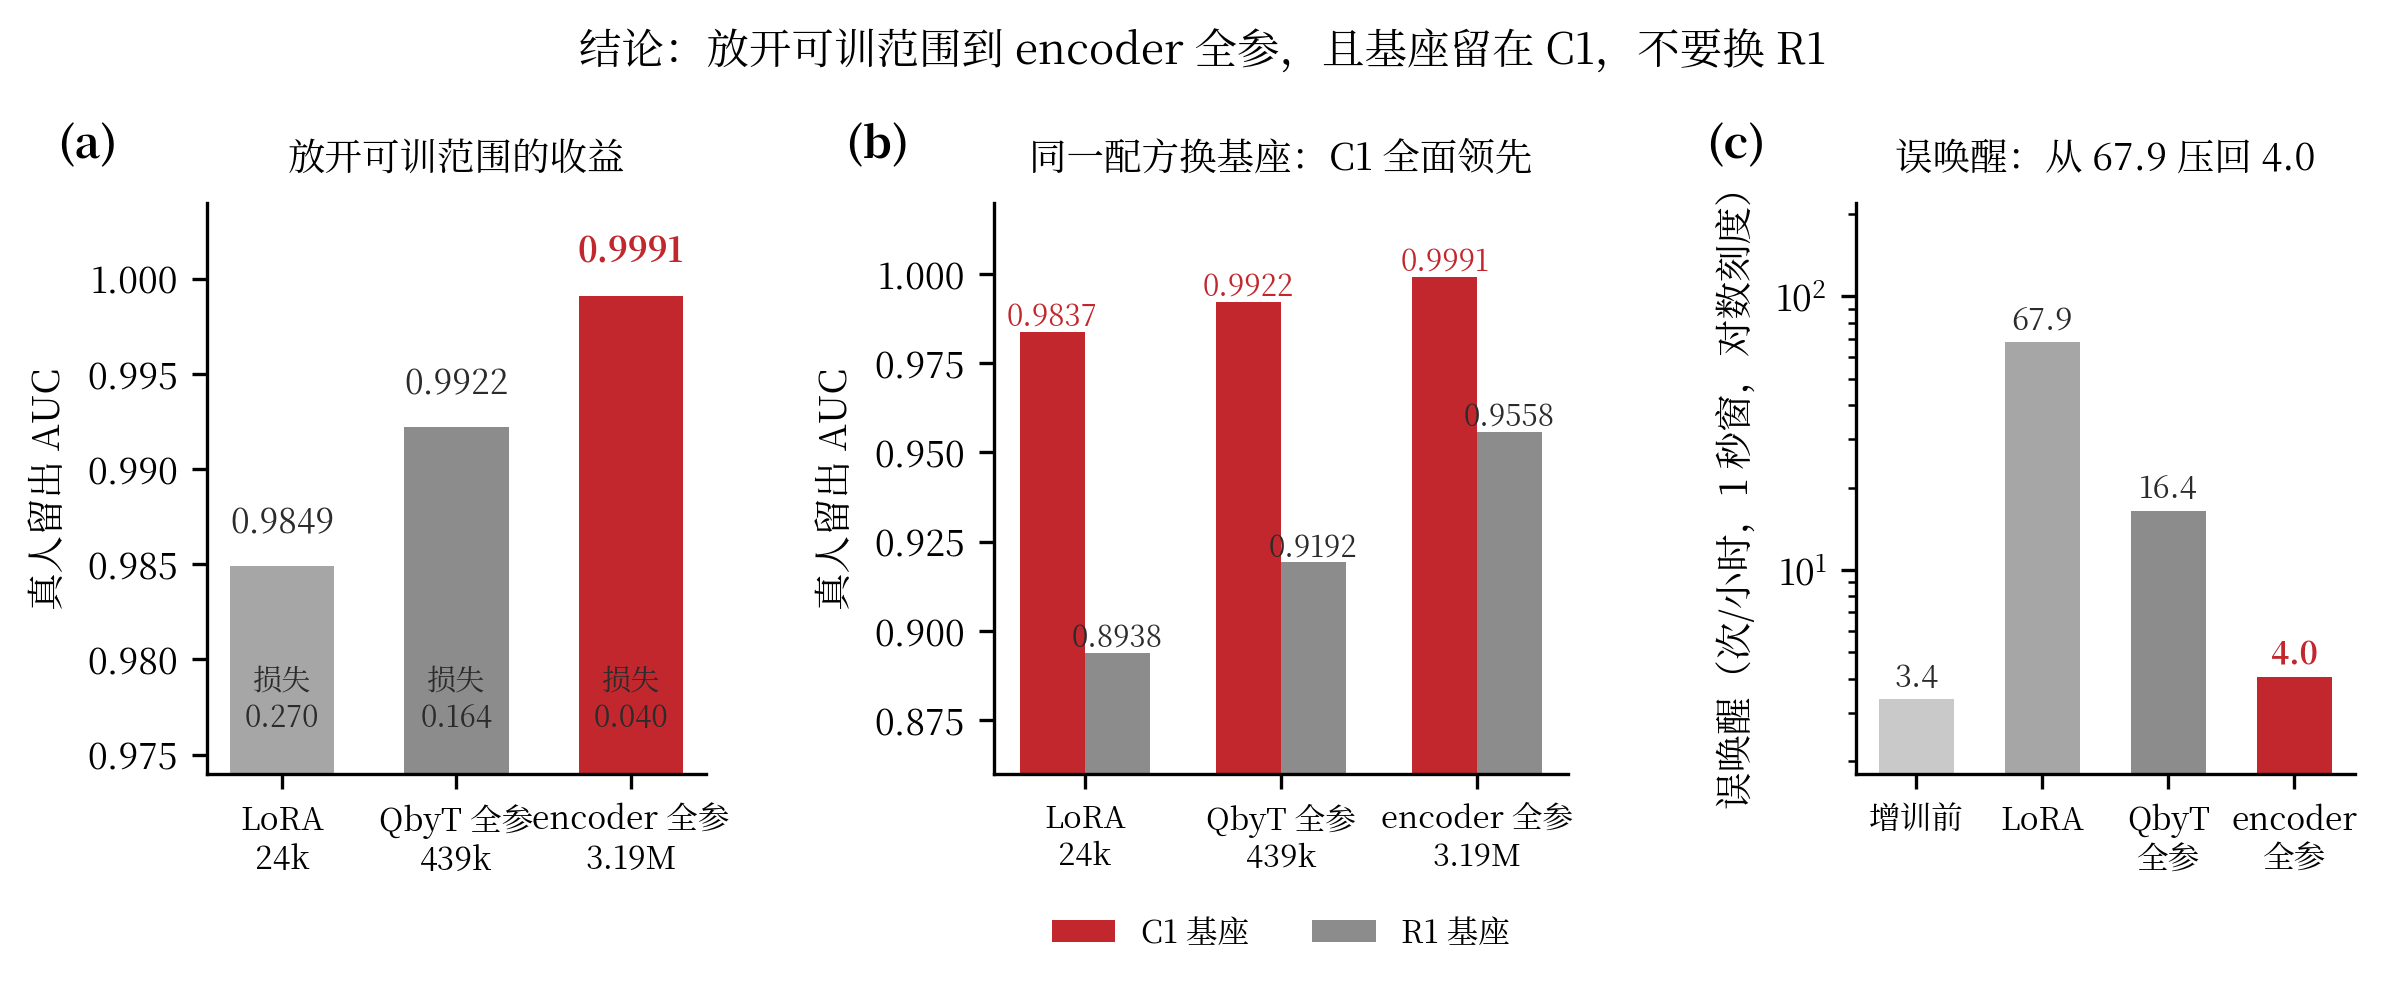
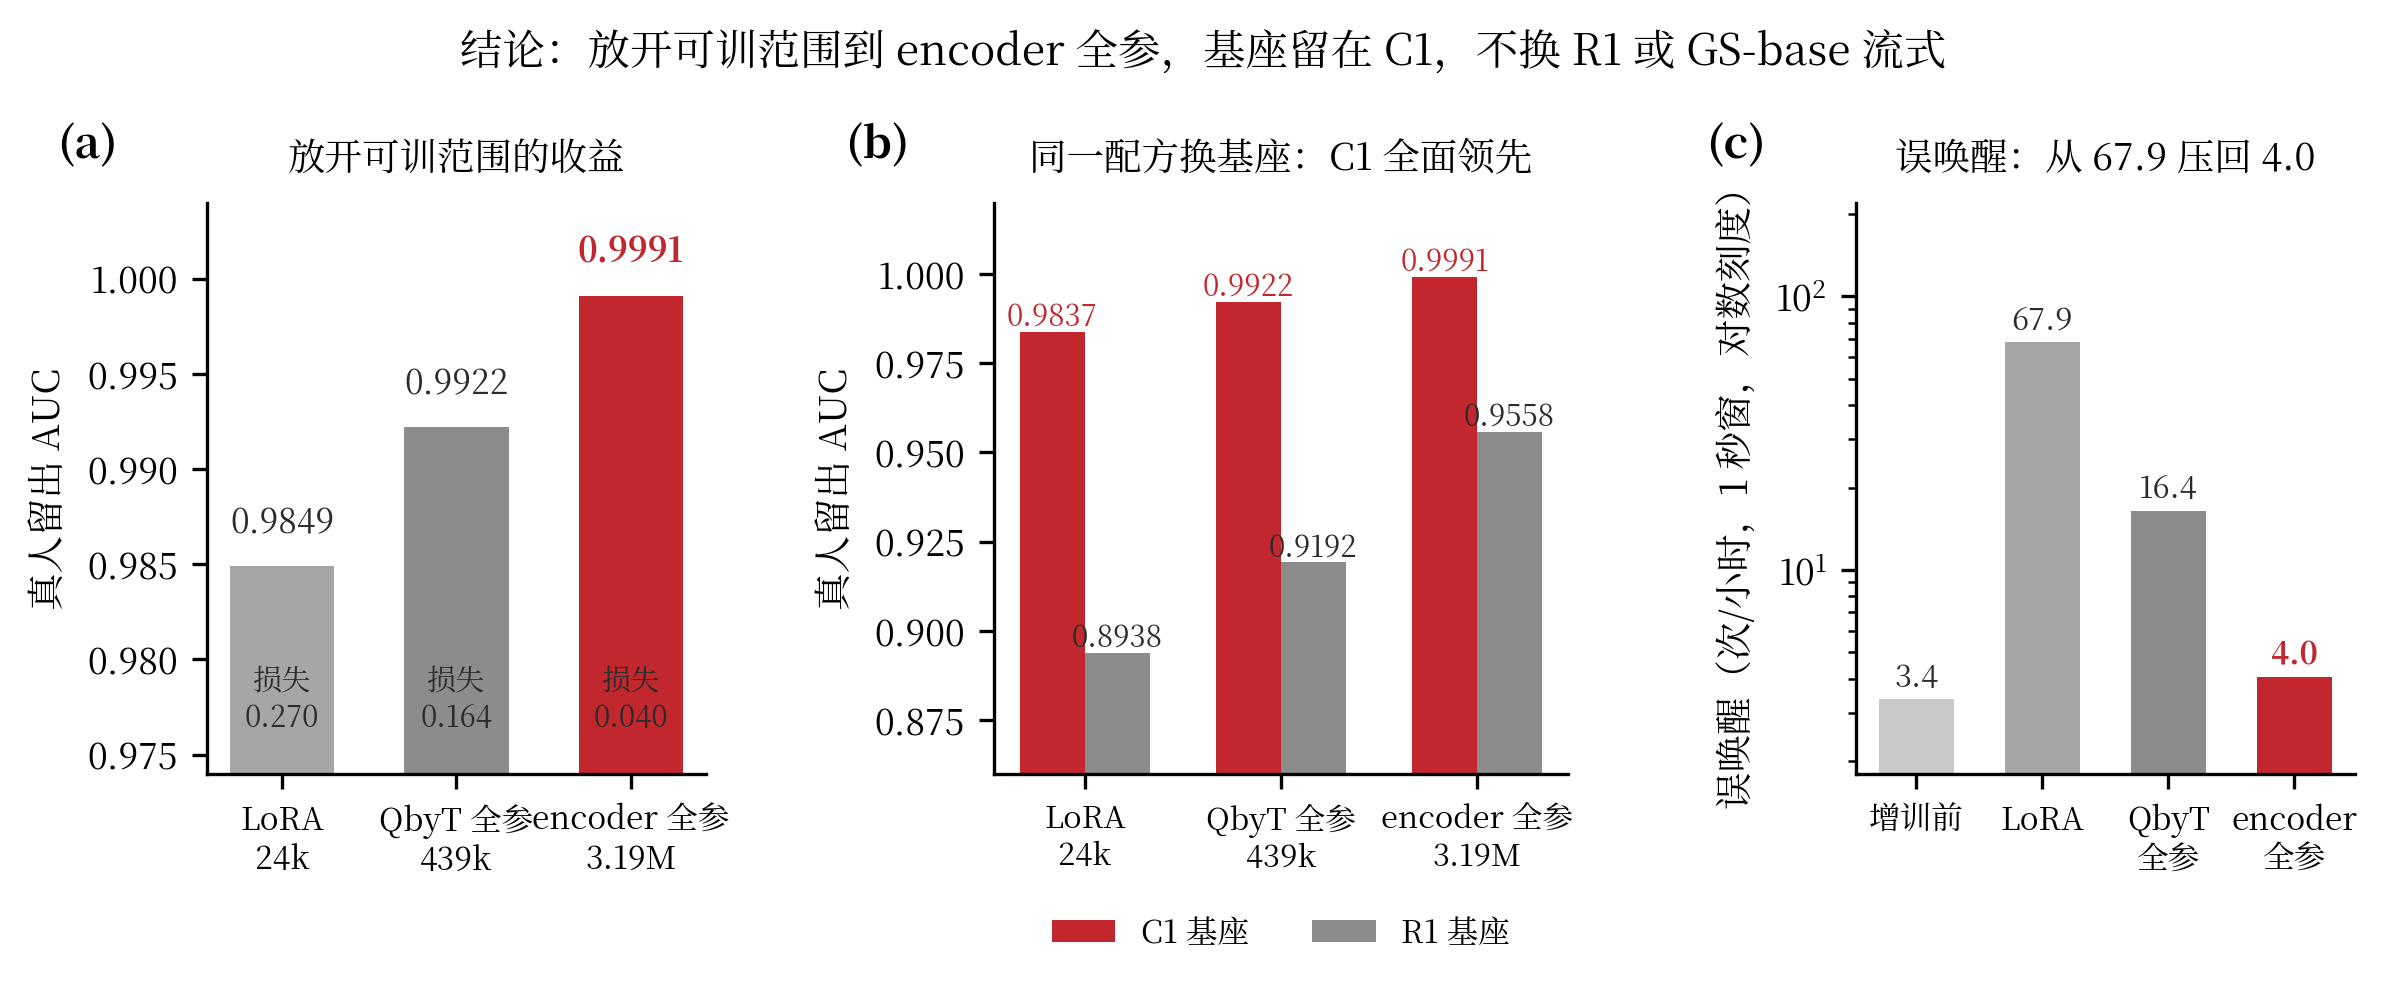
docs(report): record the GS-base encoder-family recheck
- New section 7.8: the adaptation recipe re-run on the GS-base streaming encoder with identical settings (joint quota, 2100 steps, matcher lr 1e-4, encoder lr 5e-5, batch 64, same sampling weights and seed), reporting both trainable scopes against the C1 delivery arms.
- Table 7-2 gains the seventh round; the operating-point tables gain the base-encoder provenance columns and the two GS-base arms; the encoder provenance comparison is referenced as appendix H.
- gen_report_figs.py: figure 7-3 now plots the GS-base series, the old figure 7-4 is renumbered to 7-5, and a new figure 7-4 shows the four-way encoder-family comparison.

Readings: releasing the encoder helps in both families (GS-base real AUC 0.9487 -> 0.9758), but at equal trainable scope C1 leads across the board; the recipe transfers, the encoder family sets the ceiling.

Changed region(s): [[0.186, 0.0312, 0.806, 0.0624]]

diff --git a/docs/report/gen_report_figs.py b/docs/report/gen_report_figs.py
@@ -3,6 +3,7 @@ import matplotlib
 matplotlib.use("Agg")
 import matplotlib.pyplot as plt
 import matplotlib.patches as mpatches
+import matplotlib.patheffects as pe
 from matplotlib.gridspec import GridSpec
 import numpy as np
 
@@ -17,7 +18,7 @@ plt.rcParams.update({
     "figure.dpi": 110, "savefig.dpi": 300, "savefig.bbox": "tight",
 })
 RED="#C1272D"; BLUE="#0072B2"; GRAY="#8C8C8C"; MGRAY="#A6A6A6"; LGRAY="#C9C9C9"
-ORANGE="#E69F00"; DARK="#2B2B2B"
+ORANGE="#E69F00"; DARK="#2B2B2B"; GREEN="#009E73"; LGREEN="#7FCBAF"
 
 def plabel(ax, s, x=-0.20, y=1.05):
     ax.text(x, y, s, transform=ax.transAxes, fontsize=10.5, fontweight="bold", va="bottom", visible=True)
@@ -479,7 +480,7 @@ def fig7_2():
     ax.set_xticks(range(4)); ax.set_xticklabels(["增训前", "LoRA", "QbyT\n全参", "encoder\n全参"], fontsize=7.6)
     ax.set_ylabel("误唤醒（次/小时，1 秒窗，对数刻度）")
     ax.set_title("误唤醒：从 67.9 压回 4.0", fontsize=9, pad=8)
-    fig.suptitle("结论：放开可训范围到 encoder 全参，且基座留在 C1，不要换 R1", y=0.99, fontsize=10.2)
+    fig.suptitle("结论：放开可训范围到 encoder 全参，基座留在 C1，不换 R1 或 GS-base 流式", y=0.99, fontsize=10.2)
     fig.subplots_adjust(left=0.085, right=0.98, top=0.82, bottom=0.26)
     save(fig, "fig7-2_scope_and_base")
 
@@ -493,6 +494,7 @@ def fig7_3():
         ("C1 + LoRA", [0.746, 0.822, 0.904, 0.923], ORANGE, "s"),
         ("C1 + QbyT 全参", [0.926, 0.933, 0.970, 0.977], MGRAY, "^"),
         ("C1 + encoder 全参（交付）", [0.996, 0.996, 0.997, 0.998], RED, "D"),
+        ("GS-base 流式 + encoder 全参", [0.975, 0.979, 0.988, 0.991], GREEN, "P"),
         ("R1 + encoder 5e-5", [0.965, 0.967, 0.970, 0.971], BLUE, "v"),
     ]
     ax = fig.add_subplot(gs[:, 0]); plabel(ax, "(a)", x=-0.20, y=1.03)
@@ -504,21 +506,21 @@ def fig7_3():
     ax.legend(frameon=False, fontsize=6.8, loc="center right", bbox_to_anchor=(1.02, 0.42))
     ax.set_title("标准口径：唤醒率与误唤醒预算的交换曲线", fontsize=8.8, pad=8)
 
-    names = ["增训前", "LoRA", "QbyT", "R1+enc", "enc\n全参"]
-    cols = [LGRAY, MGRAY, GRAY, BLUE, RED]
+    names = ["增训前", "LoRA", "QbyT", "R1+enc", "enc\n全参", "GS\nbase"]
+    cols = [LGRAY, MGRAY, GRAY, BLUE, RED, GREEN]
     panels = [
-        (0, 1, "(b)", "TTS 唤醒率（预算 0.05）", [0.985, 0.848, 0.891, 0.948, 0.970], (0.80, 1.04)),
-        (1, 1, "(c)", "近音词误触发（预算 0.05）", [0.247, 0.000, 0.031, 0.260, 0.024], (0, 0.31)),
-        (0, 2, "(d)", "TTS 唤醒率（预算 1.0）", [0.991, 0.936, 0.909, 0.964, 0.970], (0.80, 1.04)),
-        (1, 2, "(e)", "近音词误触发（预算 1.0）", [0.305, 0.061, 0.065, 0.283, 0.039], (0, 0.37)),
+        (0, 1, "(b)", "TTS 唤醒率（预算 0.05）", [0.985, 0.848, 0.891, 0.948, 0.970, 0.930], (0.80, 1.04)),
+        (1, 1, "(c)", "近音词误触发（预算 0.05）", [0.247, 0.000, 0.031, 0.260, 0.024, 0.108], (0, 0.31)),
+        (0, 2, "(d)", "TTS 唤醒率（预算 1.0）", [0.991, 0.936, 0.909, 0.964, 0.970, 0.970], (0.80, 1.04)),
+        (1, 2, "(e)", "近音词误触发（预算 1.0）", [0.305, 0.061, 0.065, 0.283, 0.039, 0.257], (0, 0.37)),
     ]
     for (r, c, letter, title, vals, (ylo, yhi)) in panels:
         ax = fig.add_subplot(gs[r, c]); plabel(ax, letter, x=-0.30, y=1.05)
-        ax.bar(range(5), vals, 0.62, color=cols)
+        ax.bar(range(6), vals, 0.62, color=cols)
         for i, v in enumerate(vals):
-            ax.text(i, v + (yhi - ylo) * 0.035, f"{v:.3f}", ha="center", fontsize=6.8,
+            ax.text(i, v + (yhi - ylo) * 0.035, f"{v:.3f}", ha="center", fontsize=6.4,
                     color=RED if i == 4 else DARK, fontweight="bold" if i == 4 else "normal")
-        ax.set_xticks(range(5)); ax.set_xticklabels(names, fontsize=7.0)
+        ax.set_xticks(range(6)); ax.set_xticklabels(names, fontsize=6.0)
         ax.set_ylim(ylo, yhi); ax.tick_params(axis="y", labelsize=7.4)
         ax.set_title(title, fontsize=8.2, pad=7)
     fig.suptitle("两个误唤醒预算档的对照：交付模型在两档都是唤醒率最高、近音词误触发最低", y=1.0, fontsize=10.2)
@@ -527,8 +529,105 @@ def fig7_3():
     fig.subplots_adjust(left=0.08, right=0.985, top=0.87, bottom=0.14)
     save(fig, "fig7-3_operating_points")
 
-# ================================================ 图 7-4 配方与消融
+# ================================================ 图 7-4 换编码器系复核
 def fig7_4():
+    fig = plt.figure(figsize=(8.0, 5.2))
+    gs = GridSpec(2, 3, figure=fig, height_ratios=[1.12, 1.0], hspace=0.78, wspace=0.42)
+    arms = ["C1\n冻结", "C1 全参\n（交付）", "GS\n冻结", "GS 全参"]
+    cols = [MGRAY, RED, LGREEN, GREEN]
+
+    # (a) 标准口径交换曲线：四个臂 + 增训前参照
+    ax = fig.add_subplot(gs[0, :]); plabel(ax, "(a)", x=-0.075, y=1.05)
+    fa = [0.05, 0.1, 0.5, 1.0]
+    curves = [
+        ("增训前 SS-zh-en", [0.360, 0.384, 0.432, 0.454], LGRAY, "o"),
+        ("C1 + QbyT 全参", [0.926, 0.933, 0.970, 0.977], MGRAY, "^"),
+        ("C1 + encoder 全参（交付）", [0.996, 0.996, 0.997, 0.998], RED, "D"),
+        ("GS-base + QbyT 全参", [0.799, 0.814, 0.886, 0.909], LGREEN, "v"),
+        ("GS-base + encoder 全参", [0.975, 0.979, 0.988, 0.991], GREEN, "P"),
+    ]
+    for name, ys, c, m in curves:
+        ax.plot(fa, ys, marker=m, color=c, lw=1.5, ms=5, label=name, zorder=4 if c == RED else 3)
+    ax.set_xscale("log"); ax.set_xticks(fa); ax.set_xticklabels(["0.05", "0.1", "0.5", "1.0"])
+    ax.set_xlim(0.042, 1.30); ax.set_ylim(0.30, 1.06)
+    ax.set_xlabel("目标误唤醒预算（次/小时，对数刻度）"); ax.set_ylabel("真人留出唤醒率")
+    ax.legend(frameon=False, fontsize=6.8, ncol=2, loc="center right", bbox_to_anchor=(1.0, 0.42))
+    ax.set_title("同一套配方的交换曲线：GS-base 全参贴在交付模型身后，冻结那臂整体低一档", fontsize=8.6, pad=8)
+
+    # (b) 真人留出 AUC：同可训范围下换系全部落后
+    ax = fig.add_subplot(gs[1, 0]); plabel(ax, "(b)", x=-0.30, y=1.07)
+    auc = [0.9922, 0.9991, 0.9487, 0.9758]
+    ax.bar(range(4), auc, 0.62, color=cols)
+    for i, v in enumerate(auc):
+        ax.text(i, v + 0.0012, f"{v:.4f}", ha="center", va="bottom", fontsize=7.0,
+                fontweight="bold" if i == 1 else "normal", color=RED if i == 1 else DARK)
+    ax.set_xticks(range(4)); ax.set_xticklabels(arms, fontsize=7.0)
+    ax.set_ylim(0.94, 1.012); ax.set_ylabel("AUC")
+    ax.tick_params(axis="y", labelsize=7.4)
+    ax.set_title("真人留出 AUC（增训前 0.6085）", fontsize=8.4, pad=7)
+
+    # (c) 通用能力：两条参照线是各自编码器系增训前的旧任务水平
+    ax = fig.add_subplot(gs[1, 1]); plabel(ax, "(c)", x=-0.34, y=1.07)
+    lph = [0.9300, 0.9413, 0.9025, 0.9137]
+    ax.bar(range(4), lph, 0.62, color=cols)
+    for i, v in enumerate(lph):
+        ax.text(i, v + 0.0008, f"{v:.4f}", ha="center", va="bottom", fontsize=7.0,
+                fontweight="bold" if i == 1 else "normal", color=RED if i == 1 else DARK)
+    ax.axhline(0.9411, color=BLUE, lw=1.0, ls="--", zorder=3)
+    gs_ref = ax.axhline(0.9119, color=GREEN, lw=1.0, ls="--", zorder=3)
+    # 绿色参照线要横穿同为绿色的 GS 全参柱，加一圈白色描边保证全程可见
+    gs_ref.set_path_effects([pe.withStroke(linewidth=2.6, foreground="white")])
+    h_zh, = ax.plot([], [], color=BLUE, ls="--", lw=1.0)
+    h_gs, = ax.plot([], [], color=GREEN, ls="--", lw=1.0)
+    ax.legend([h_zh, h_gs], ["zh-en 基座 0.9411", "GS-base 流式基座 0.9119"],
+              frameon=False, fontsize=6.2, loc="upper right", handlelength=1.4,
+              handletextpad=0.5, labelspacing=0.3, borderaxespad=0.15)
+    ax.set_xticks(range(4)); ax.set_xticklabels(arms, fontsize=7.0)
+    ax.set_ylim(0.892, 0.968); ax.set_ylabel("LibriPhrase AUC")
+    ax.tick_params(axis="y", labelsize=7.4)
+    ax.set_title("通用能力：柱低于同色虚线即遗忘", fontsize=8.4, pad=7)
+
+    # (d) 1 次/小时预算下的取舍：交付模型独占左上角
+    ax_d = fig.add_subplot(gs[1, 2]); plabel(ax_d, "(d)", x=-0.34, y=1.07)
+    pts = [
+        ("C1 冻结", 0.065, 0.977, MGRAY, "^", (5, -8)),
+        ("C1 全参（交付）", 0.039, 0.998, RED, "D", (6, 0)),
+        ("GS 冻结", 0.086, 0.909, LGREEN, "v", (5, -1)),
+        ("GS 全参", 0.257, 0.991, GREEN, "P", (-7, -6)),
+    ]
+    for name, near, wake, c, m, off in pts:
+        ax_d.scatter([near], [wake], s=46, color=c, marker=m, zorder=4,
+                     edgecolor=DARK if c == RED else "none", linewidth=0.6 if c == RED else 0)
+        ax_d.annotate(name, (near, wake), textcoords="offset points", xytext=off,
+                      fontsize=6.8, color=RED if c == RED else DARK,
+                      ha="right" if off[0] < 0 else "left")
+    ax_d.set_xlim(0, 0.31); ax_d.set_ylim(0.885, 1.02)
+    ax_d.set_xlabel("近音词误触发率"); ax_d.set_ylabel("真人留出唤醒率")
+    ax_d.tick_params(labelsize=7.4)
+    ax_d.set_title("预算 1 次/小时：越靠左上越好", fontsize=8.4, pad=7)
+
+    fig.suptitle("换 GS-base 流式编码器系复核：配方可以迁移，近音词与通用能力仍要付代价", y=1.0, fontsize=10.2)
+    fig.text(0.5, 0.012, "同一可训范围下 C1 全面领先；GS-base 放开全参把 1 次/小时唤醒率追到 0.991，但近音词误触发是交付模型的 6.6 倍。",
+             ha="center", fontsize=7.8, color=DARK)
+    fig.subplots_adjust(left=0.075, right=0.985, top=0.885, bottom=0.115)
+
+    # 方向指示：先在显示坐标下量出轴宽高，再画一条真正的 45° 斜箭头。
+    # 文字锚在箭尾，箭头和标签不会各说各话。
+    fig.canvas.draw()
+    box = ax_d.get_window_extent()
+    dx_ax = 0.22
+    dy_ax = dx_ax * box.width / box.height
+    tail = (0.95, 0.10)
+    ax_d.annotate("", xy=(tail[0] - dx_ax, tail[1] + dy_ax), xytext=tail,
+                  xycoords="axes fraction",
+                  arrowprops=dict(arrowstyle="->", lw=1.0, color=BLUE, ls="--"))
+    ax_d.annotate("更好", xy=tail, xycoords="axes fraction", textcoords="offset points",
+                  xytext=(-6, -1), ha="right", va="center", fontsize=6.6, color=BLUE)
+
+    save(fig, "fig7-4_encoder_family_recheck")
+
+# ================================================ 图 7-5 配方与消融
+def fig7_5():
     fig = plt.figure(figsize=(8.0, 4.6))
     gs = GridSpec(2, 3, figure=fig, height_ratios=[1.0, 1.15], hspace=0.62, wspace=0.5)
     # (a) joint vs sequential：TTS AUC
@@ -593,7 +692,7 @@ def fig7_4():
     ax.set_title("负结果：sink 写回放大 128 倍", fontsize=8.8, pad=8)
     fig.suptitle("配方与消融：joint 配额是主配方，TTS 预热值得做，随机加压与 sink 写回都不要做", y=0.985, fontsize=10.2)
     fig.subplots_adjust(left=0.085, right=0.98, top=0.86, bottom=0.10)
-    save(fig, "fig7-4_recipe_and_ablations")
+    save(fig, "fig7-5_recipe_and_ablations")
 
 # ================================================ 图 8-1 收益总表
 def fig8_1():
@@ -646,7 +745,7 @@ def fig8_1():
     fig.subplots_adjust(left=0.01, right=0.99, top=0.90, bottom=0.02)
     save(fig, "fig8-1_gains_table", allpairs)
 
-for f in [fig0_1, fig1_1, fig3_1, fig3_2, fig4_1, fig5_1, fig5_2, fig6_1, fig7_1, fig7_2, fig7_3, fig7_4, fig8_1]:
+for f in [fig0_1, fig1_1, fig3_1, fig3_2, fig4_1, fig5_1, fig5_2, fig6_1, fig7_1, fig7_2, fig7_3, fig7_4, fig7_5, fig8_1]:
     try:
         f()
     except Exception:
